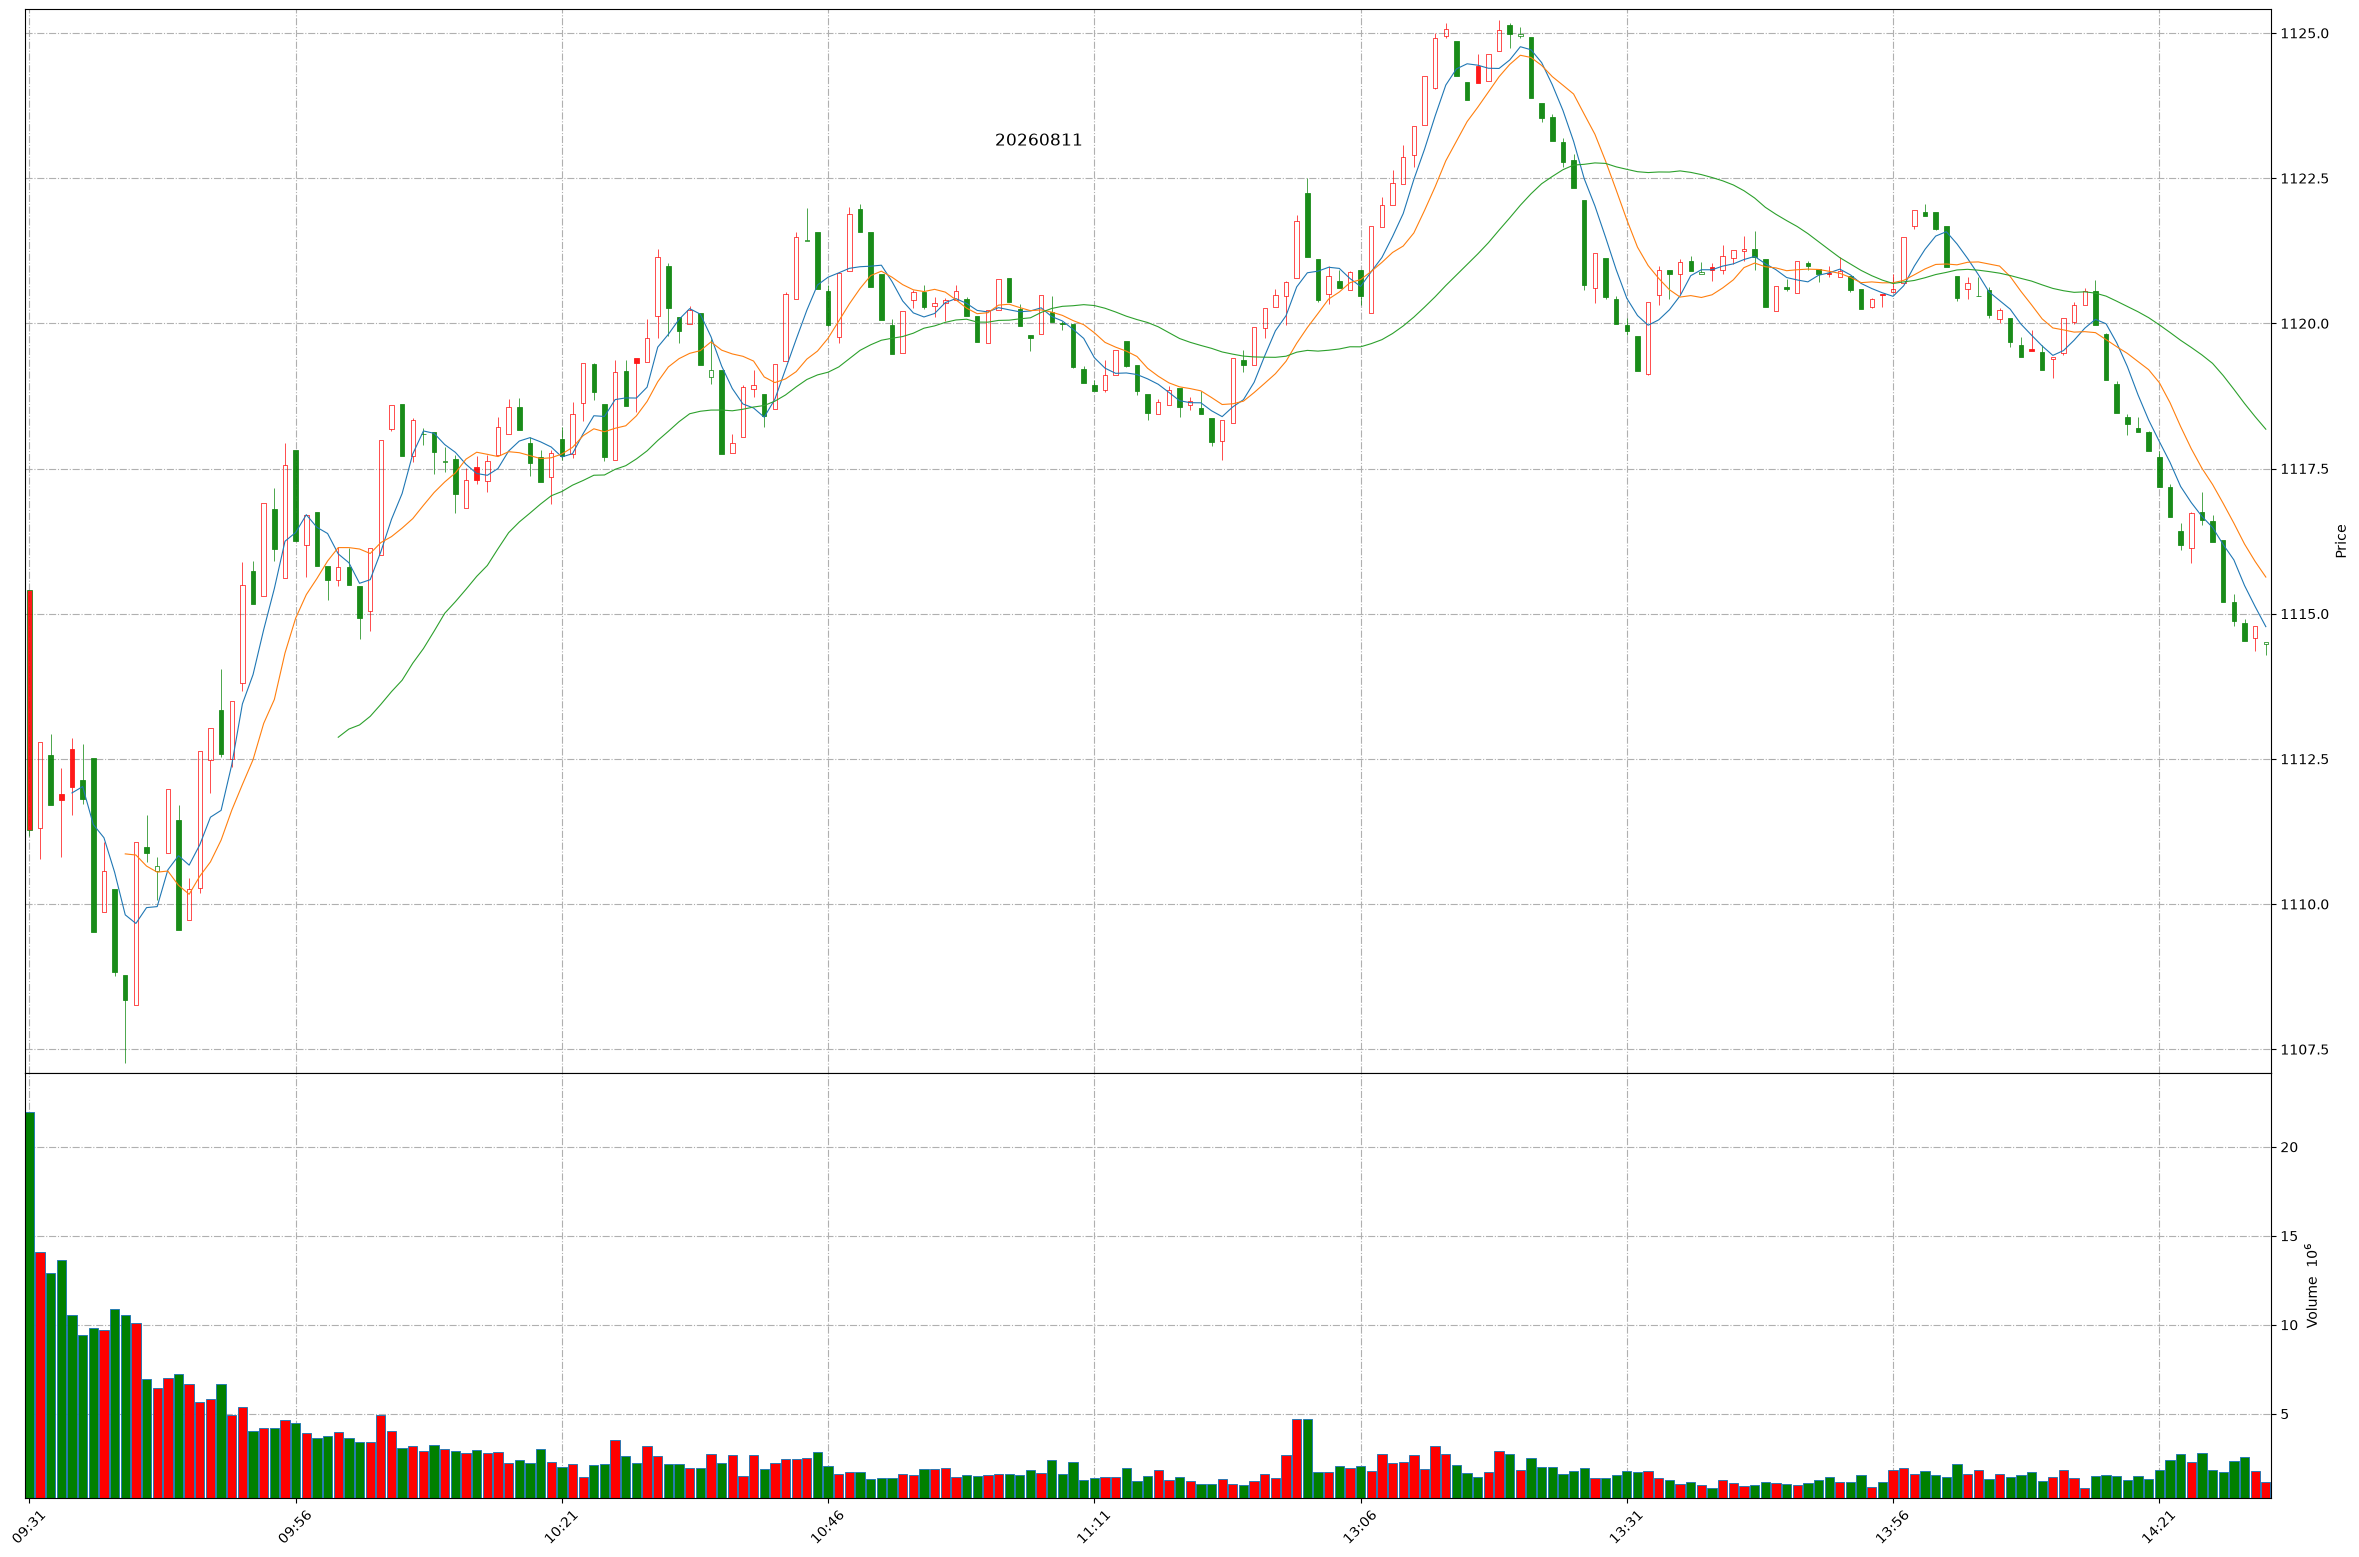
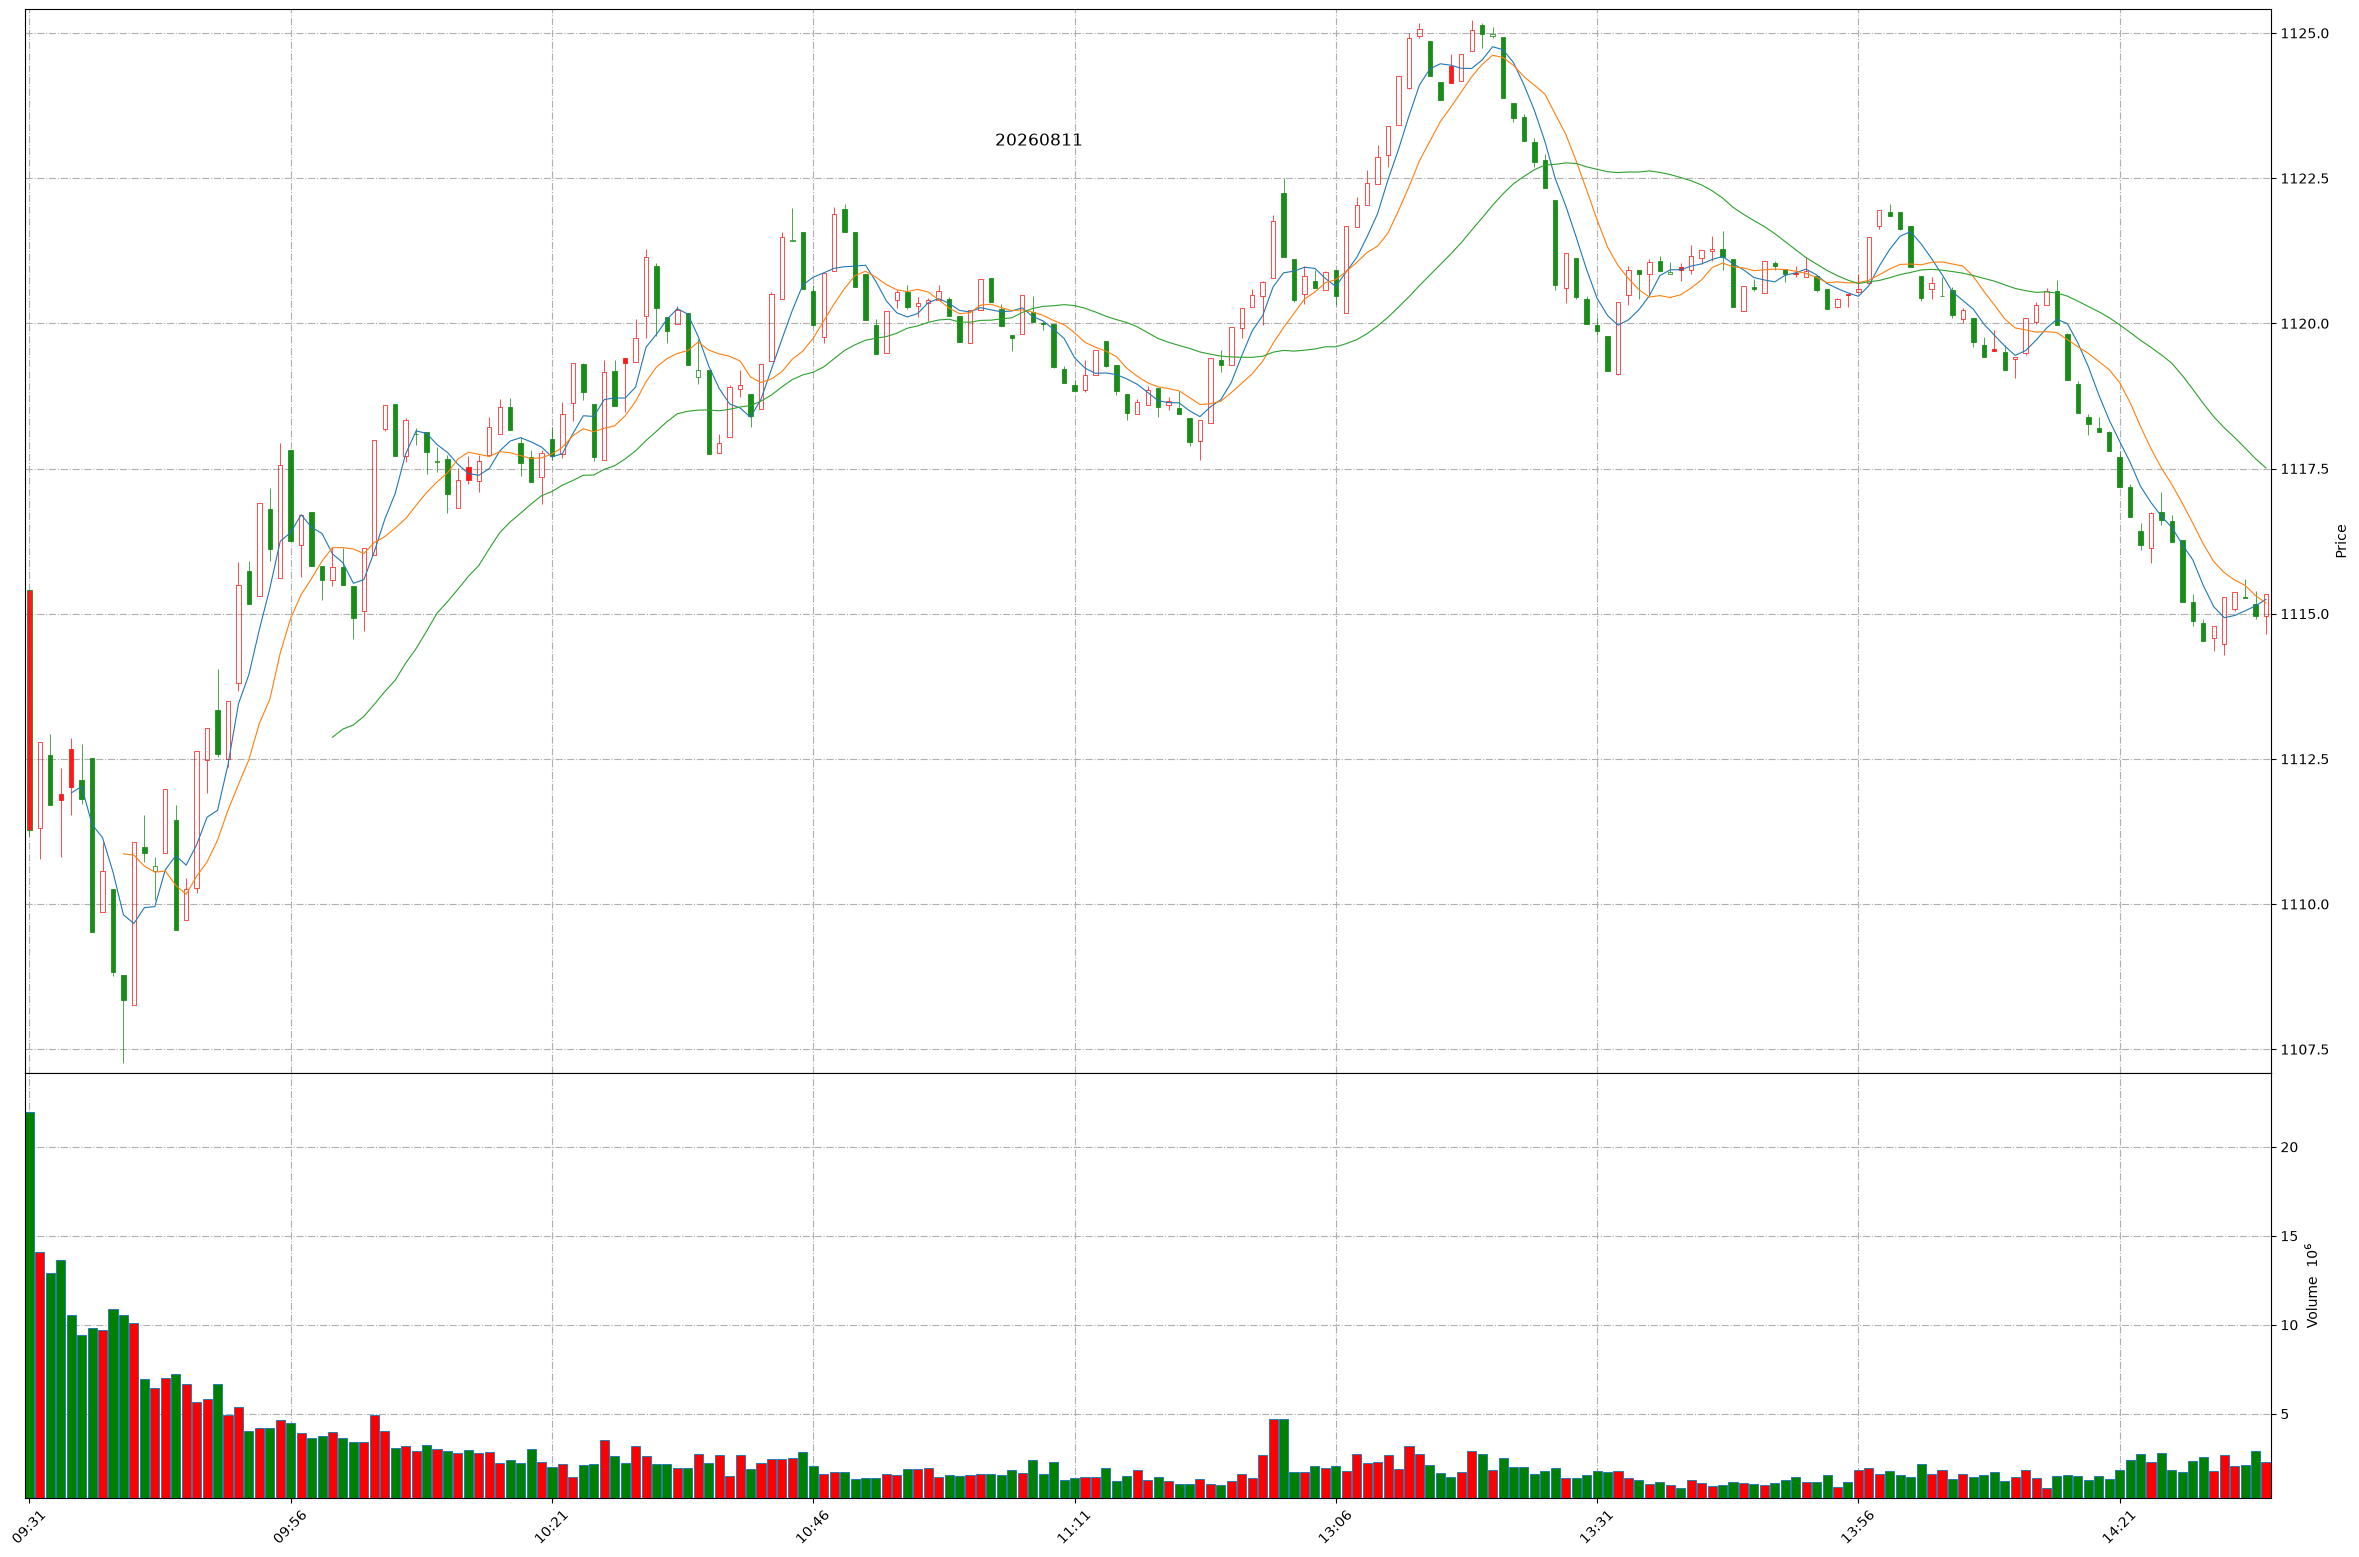
Github action update at 2026-08-11 14:35:17.

Changed region(s): [[0.0309, 0.8324, 0.9593, 0.9865], [0.0309, 0.1233, 0.588, 0.6166], [0.588, 0.0, 0.9593, 0.4008]]

diff --git a/README.md b/README.md
@@ -1,11 +1,11 @@
 
 # Daily-A-share-market-quotes 每日 A 股指数（5min 更新）- 20260811
 
-### 上证指数 20260811 14:30
+### 上证指数 20260811 14:35
 ![](./fig/2026/8/20260811-sh000001.png)
 
-### 深证成指 20260811 14:30
+### 深证成指 20260811 14:35
 ![](./fig/2026/8/20260811-sz399001.png)
 
-### 北证50 20260811 14:30
+### 北证50 20260811 14:35
 ![](./fig/2026/8/20260811-bj899050.png)
